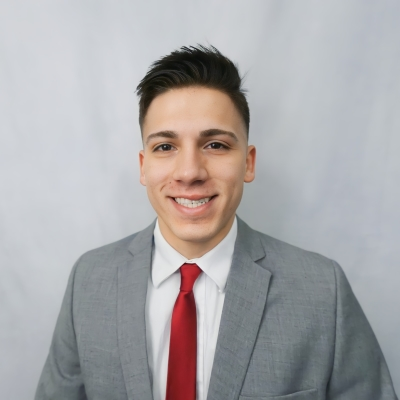
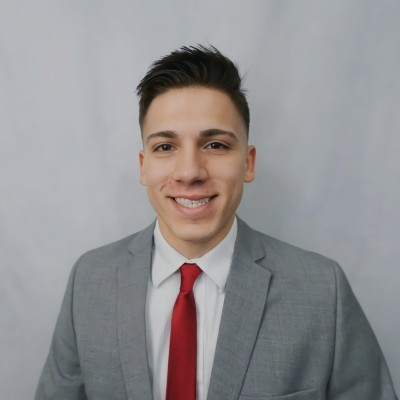
Updated Headshot Photo
Fixed error with "Headshot.jpg" vs "Headshot2.jpg"

diff --git a/index.html b/index.html
@@ -271,7 +271,7 @@
                     <section id="about" class="full-width-section">
                         <div class="about-content">
                             <div class="about-image">
-                                <img src="Headshot2.jpg" alt="Headshot of Quinton Bock" />
+                                <img src="Headshot.jpg" alt="Headshot of Quinton Bock" />
                             </div>
                             <div class="about-text">
                                 <h1>Backend Software Developer</h1>
